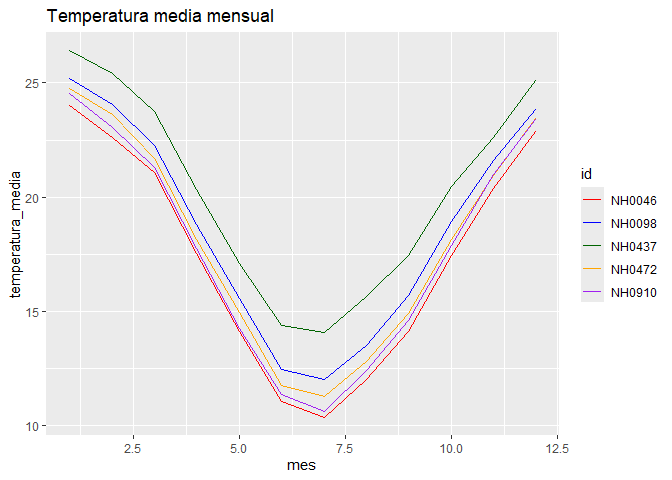
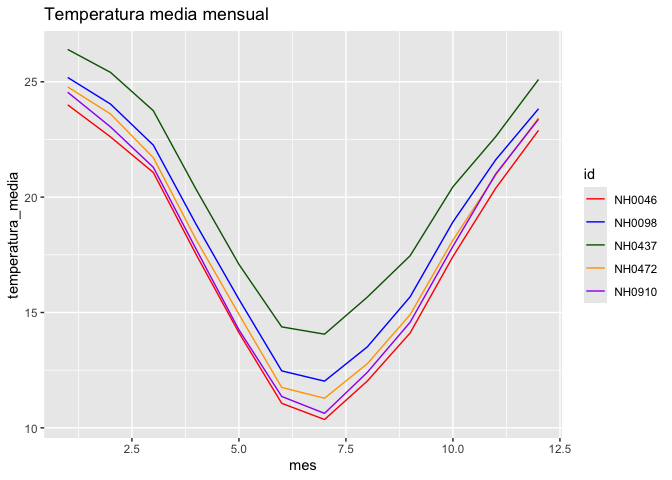
Agregar GitHub Actions de check y cobertura

diff --git a/README.md b/README.md
@@ -5,6 +5,9 @@
 
 <!-- badges: start -->
 
+[![R-CMD-check](https://github.com/Dolorespalavecino/estacionesmeteo/actions/workflows/R-CMD-check.yaml/badge.svg)](https://github.com/Dolorespalavecino/estacionesmeteo/actions/workflows/R-CMD-check.yaml)
+[![Codecov test
+coverage](https://codecov.io/gh/Dolorespalavecino/estacionesmeteo/graph/badge.svg)](https://app.codecov.io/gh/Dolorespalavecino/estacionesmeteo)
 <!-- badges: end -->
 
 ¡Hola! Te damos la bienvenida a **estacionesmeteo**, un paquete de R
